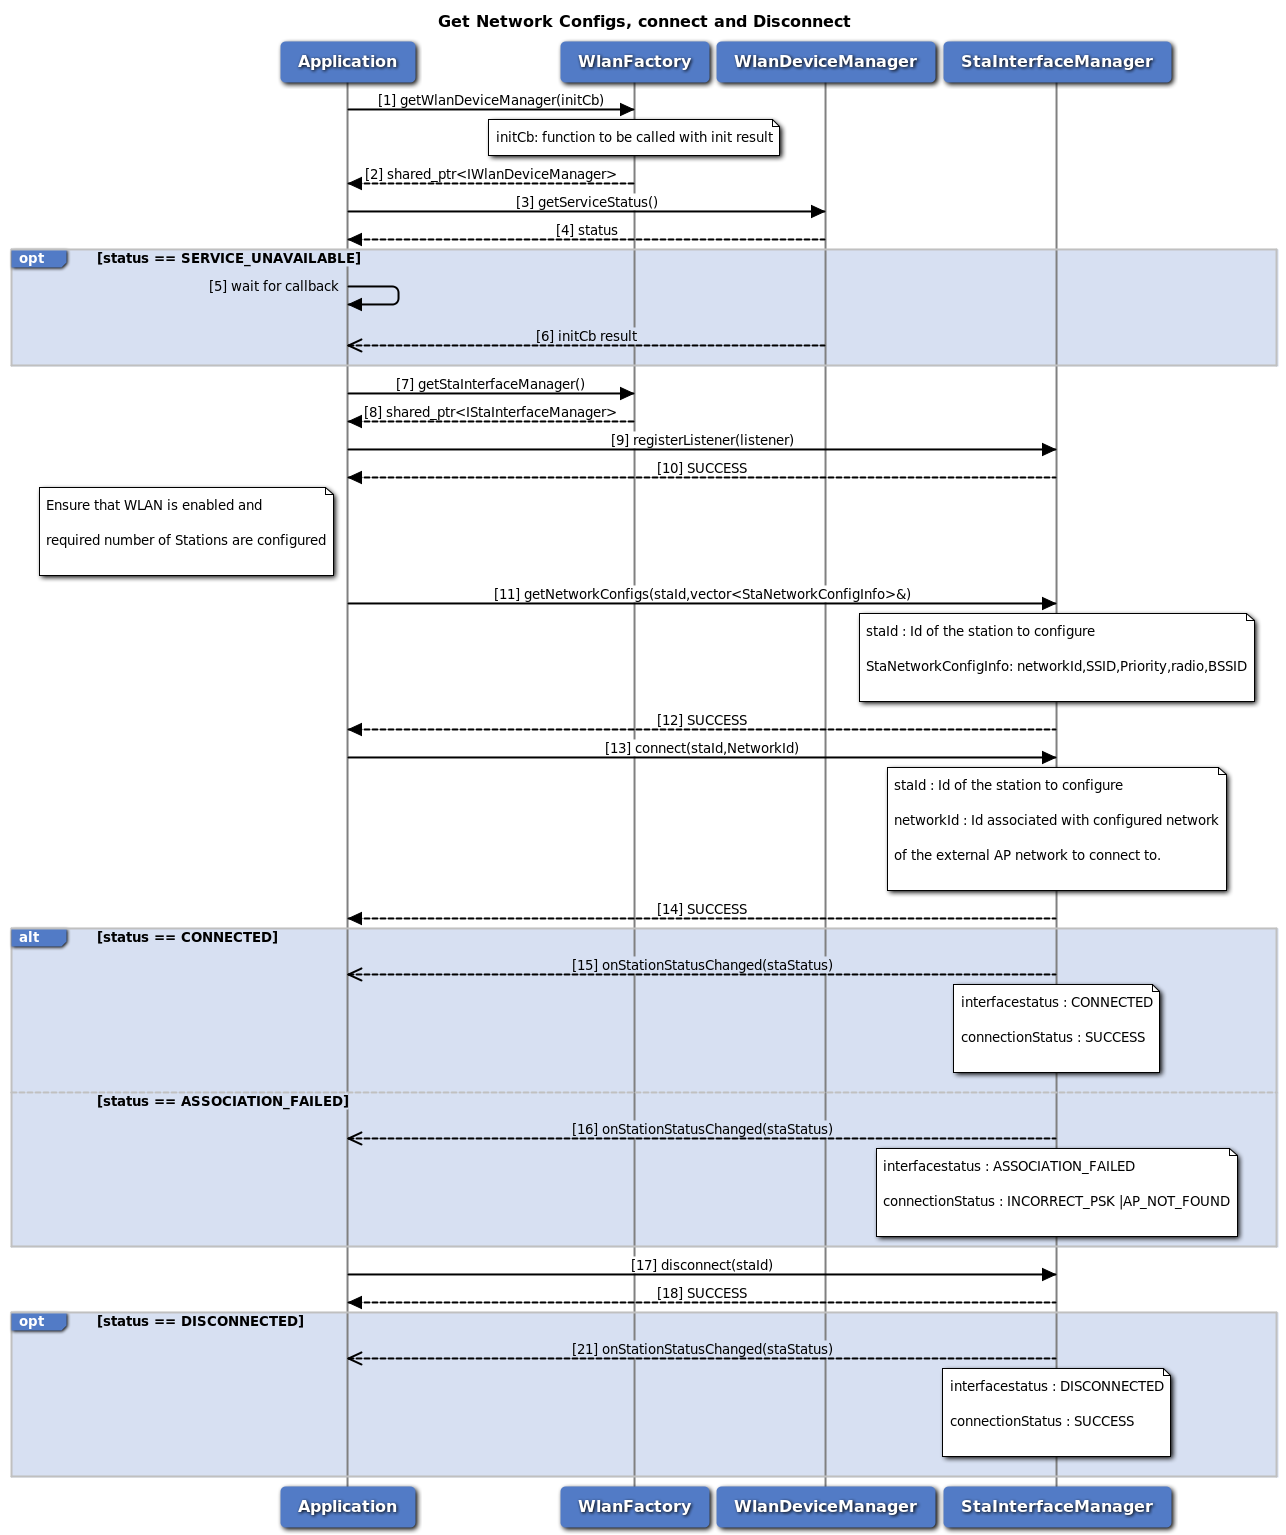
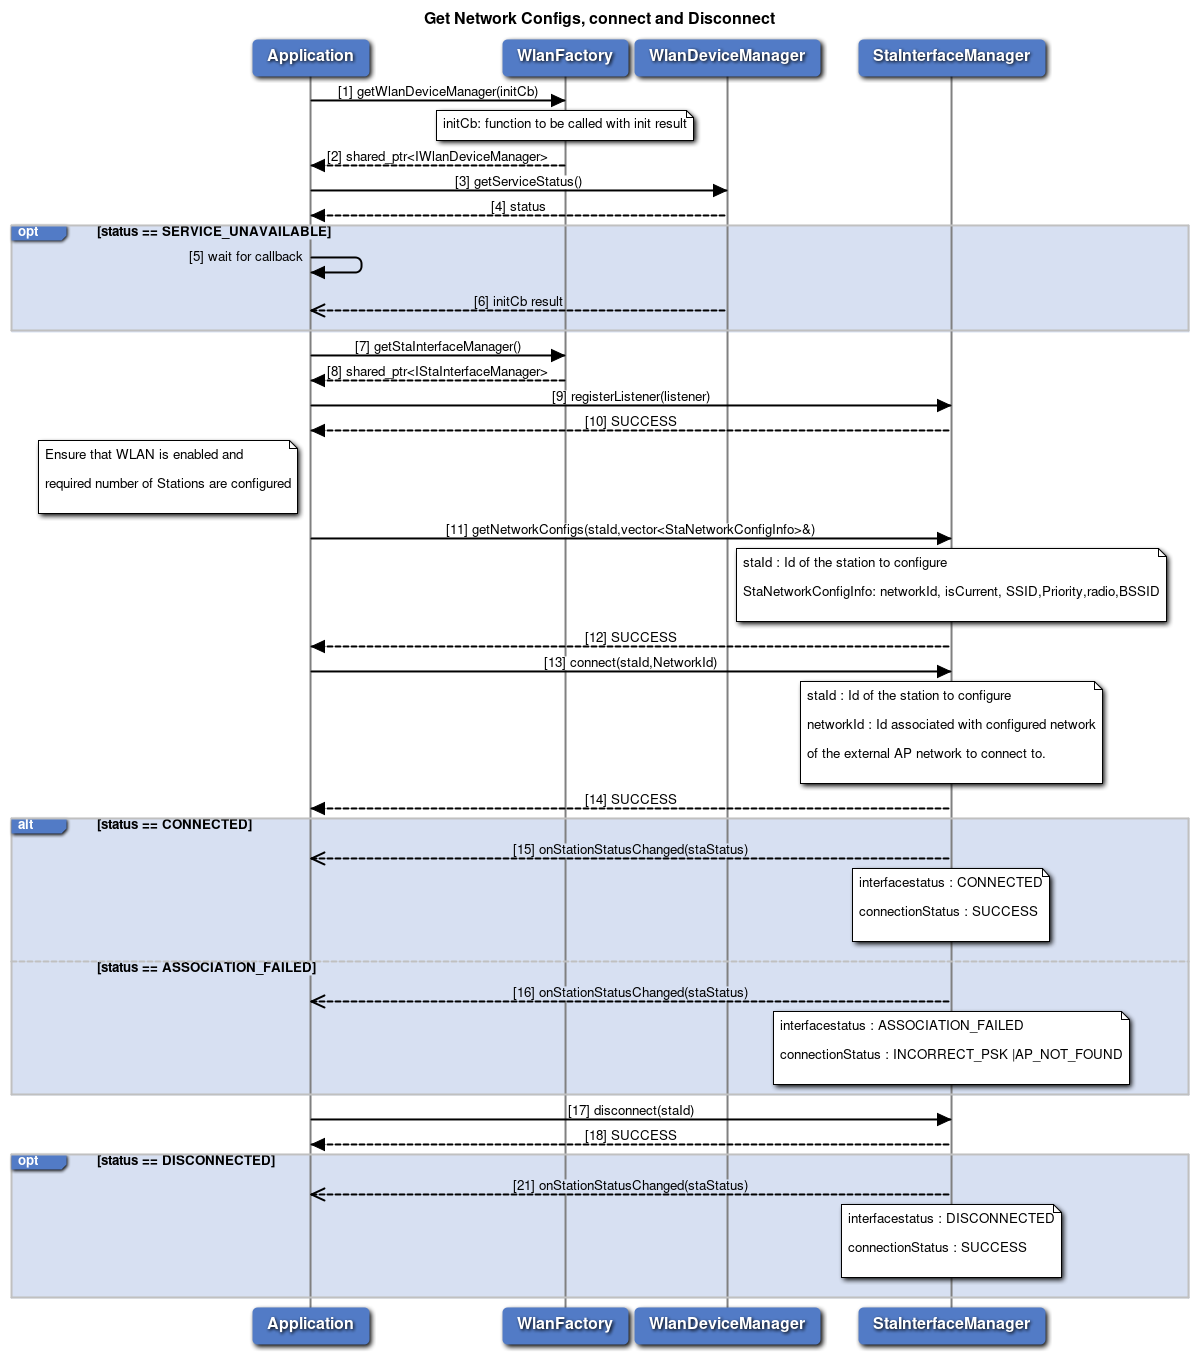
wlan: STA API Updates improvements
- Updated API documentation and callflow.

CRs-Fixed: 4171861

Changed region(s): [[0.0, 0.0, 1.0, 1.0], [0.0, 0.5898, 0.2164, 0.6208], [0.34, 0.714, 0.3709, 0.745]]

diff --git a/apps/samples/wlan/wlan_sta_config_app/WlanStaConfigApp.cpp b/apps/samples/wlan/wlan_sta_config_app/WlanStaConfigApp.cpp
@@ -472,6 +472,7 @@ int main(int argc, char *argv[]) {
     }
     staNetworkConfigEntry.priority = priority;
     staNetworkConfigEntry.bssid = bssid;
+    staNetworkConfigEntry.enable = true;
 
     ret = app->addNetworkConfig(staNetworkConfigEntry);
     if (ret < 0) {

diff --git a/qdocs/api_reference/general/call_flow_diagrams.rst b/qdocs/api_reference/general/call_flow_diagrams.rst
@@ -3222,7 +3222,7 @@ Call flow to start scan, add network config, or remove network config
 8. Application calls IStaInterfaceManager::startScan to initiate station scan process.
 9. Application receives the result (SUCCESS or suitable failure) of startScan request.
 9. Application receives onScanResultUpdated() notification when scan results are available.
-10. Application calls IStaInterfaceManager::AddNetworkConfig to add and store new network configuration persistently.
+10. Application calls IStaInterfaceManager::addNetworkConfig to add and store new network configuration persistently. If the enable flag is set to true, the system proceeds as follows:
 
    a. If the requested station is already in connected state, the new configuration is stored and no attempt would be made to connect
       to the requested network.
